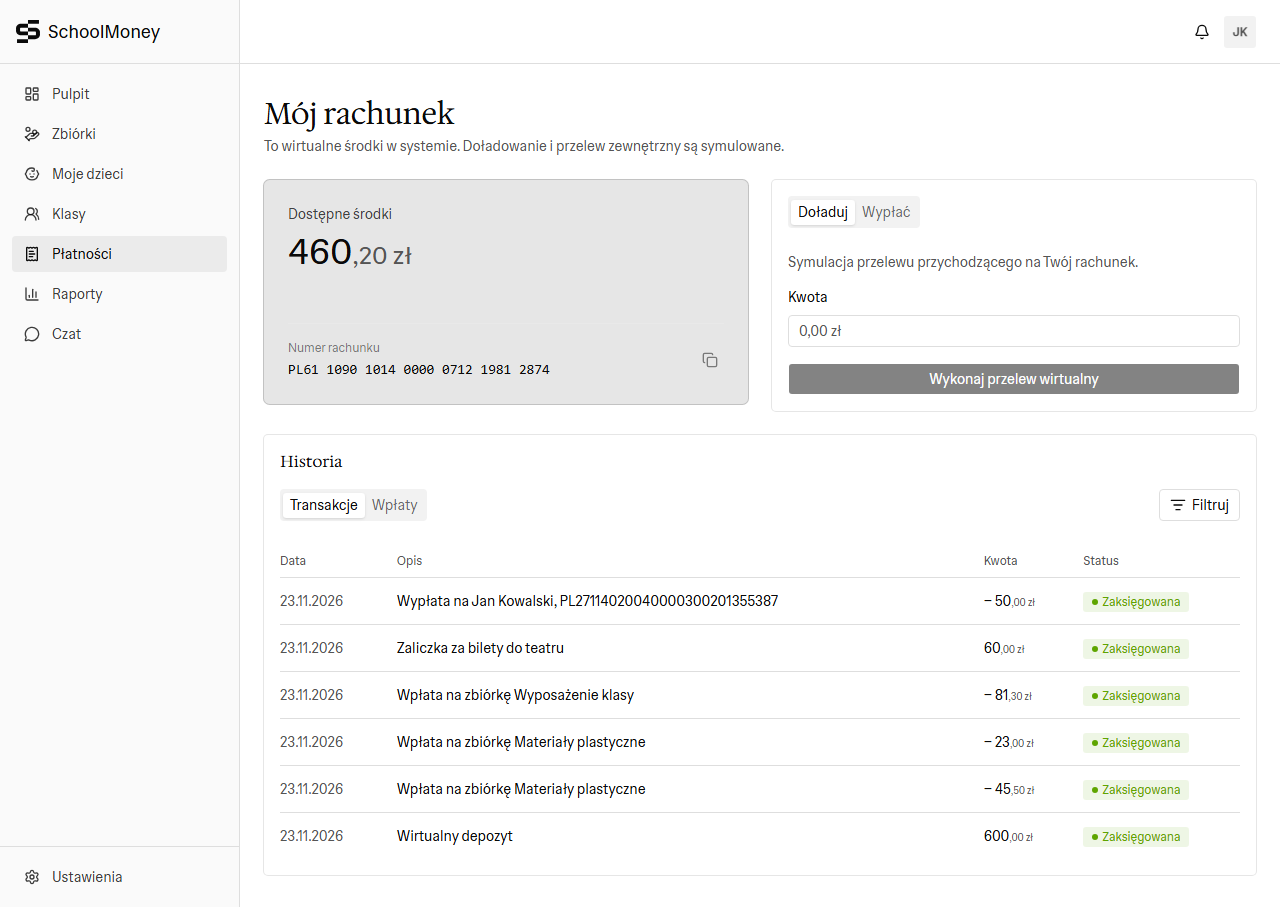
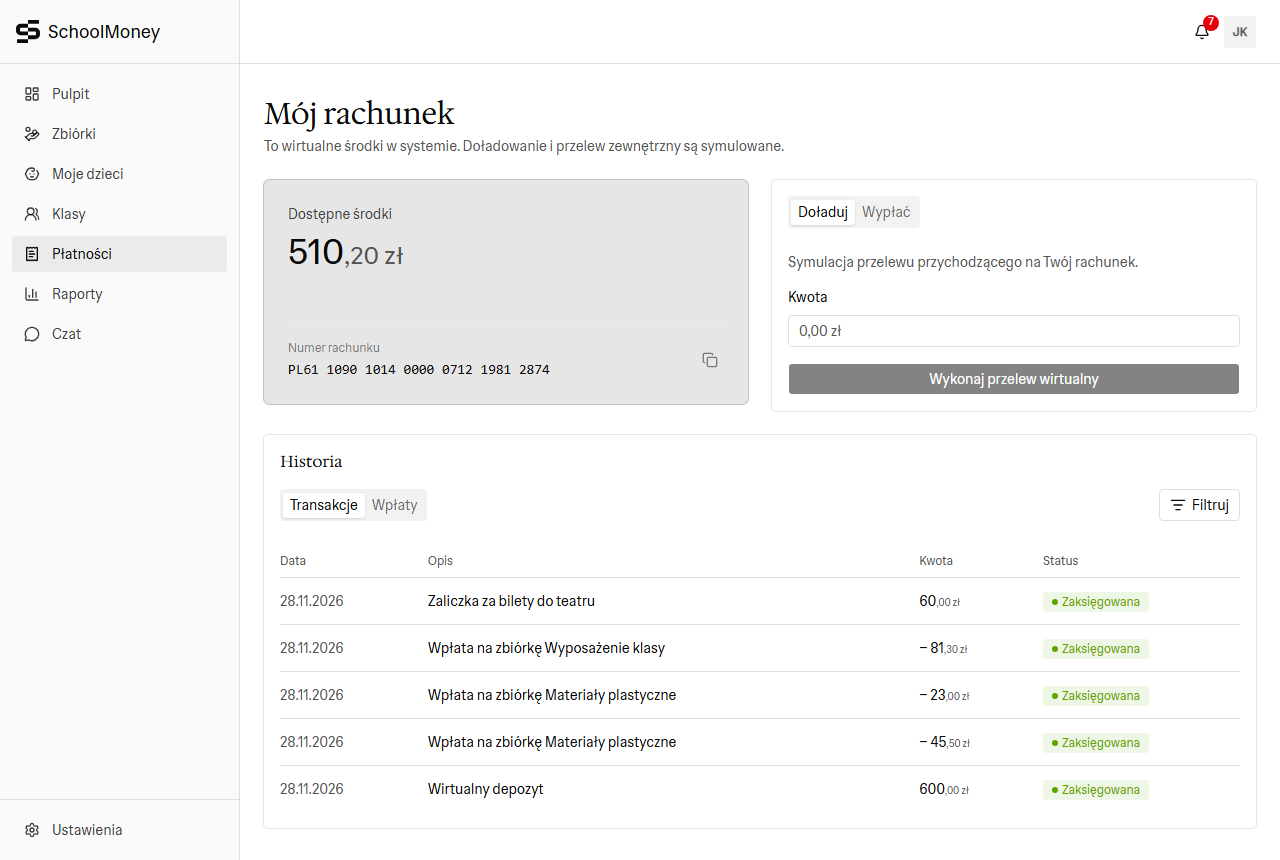
Update docs

diff --git a/docs/funkcjonalnosci.md b/docs/funkcjonalnosci.md
@@ -9,10 +9,12 @@
 5. [Klasy](#5-klasy)
 6. [Zbiórki](#6-zbiórki)
 7. [Rachunek i płatności](#7-rachunek-i-płatności)
-8. [Czat](#8-czat)
-9. [Ustawienia konta](#9-ustawienia-konta)
-10. [Wersja mobilna](#10-wersja-mobilna)
-11. [Bezpieczeństwo i poprawność danych](#11-bezpieczeństwo-i-poprawność-danych)
+8. [Raporty](#8-raporty)
+9. [Czat](#9-czat)
+10. [Ustawienia konta](#10-ustawienia-konta)
+11. [Panel administratora](#11-panel-administratora)
+12. [Wersja mobilna](#12-wersja-mobilna)
+13. [Bezpieczeństwo i poprawność danych](#13-bezpieczeństwo-i-poprawność-danych)
 
 ## 1. Role użytkowników
 
@@ -21,7 +23,7 @@
 | Gość | Osoba niezalogowana | Ogląda stronę główną, zakłada konto, loguje się. |
 | Rodzic | Każdy zalogowany użytkownik | Dodaje dzieci, zapisuje je do klas kodem, wpłaca na zbiórki, korzysta z rachunku i czatu. |
 | Skarbnik | Rodzic, który założył klasę | Dodatkowo zarządza klasą, przyjmuje dzieci, tworzy zbiórki, wypłaca środki i dodaje faktury. |
-| Administrator | Konto systemowe tworzone przy starcie aplikacji |  |
+| Administrator | Konto systemowe tworzone przy starcie aplikacji | Korzysta z panelu administratora: przegląda statystyki i raporty całej platformy, blokuje i odblokowuje konta, klasy i zbiórki, przy blokadzie zbiórki zwraca wpłaty rodzicom. Prowadzi rozmowy na czacie z każdym użytkownikiem. |
 
 ## 2. Strona główna, rejestracja i logowanie
 
@@ -83,6 +85,17 @@ Rodzic widzi saldo rachunku, przycisk doładowania, listę opłat do zrobienia z
 
 ![Pulpit rodzica](zrzuty/06-pulpit-rodzica.png)
 
+### 3.4. Powiadomienia skarbnika
+
+Skarbnik ma w górnym pasku ikonę dzwonka z licznikiem nowych powiadomień od ostatniego otwarcia listy. Powiadomienia odświeżają się automatycznie co kilka sekund i obejmują:
+
+- **Zgłoszenia do zatwierdzenia:** liczbę dzieci czekających na przyjęcie w każdej klasie.
+- **Nowe wpłaty na zbiórki:** kto, za jaką zbiórkę i ile wpłacił.
+
+Przycisk „Otwórz” przy powiadomieniu prowadzi do odpowiedniej klasy albo zbiórki. Rodzic, który nie prowadzi klasy, nie widzi dzwonka.
+
+![Powiadomienia](zrzuty/22-powiadomienia.png)
+
 ## 4. Moje dzieci
 
 Lista dzieci użytkownika. Rodzic może mieć dowolną liczbę dzieci, także w różnych klasach.
@@ -125,7 +138,7 @@ Zbiórki z klas prowadzonych przez użytkownika i z klas jego dzieci, z filtrem.
 | Trwa | Zbiórka przyjmuje wpłaty. |
 | Zamknięta | Zbiórka zakończona przez skarbnika. |
 | Zamknięta ze zwrotem | Zbiórka anulowana, wpłaty zwrócono rodzicom. |
-| Zablokowana | Zbiórka zablokowana, nie przyjmuje wpłat ani wypłat. |
+| Zablokowana | Zbiórka zablokowana przez administratora (bezpośrednio albo przez zablokowanie klasy), nie przyjmuje wpłat ani wypłat. |
 
 ![Zbiórki](zrzuty/07-zbiorki.png)
 
@@ -178,7 +191,8 @@ Każdy użytkownik ma wirtualny rachunek osobisty z numerem IBAN.
 
 - **Saldo** i numer rachunku z przyciskiem kopiowania.
 - **Doładowanie:** symulacja przelewu przychodzącego na rachunek.
-- **Wypłata:** symulacja przelewu na rachunek zewnętrzny (nazwa odbiorcy i IBAN). Nie można wypłacić na rachunek należący do systemu.
+- **Wypłata:** symulacja przelewu na rachunek zewnętrzny (nazwa odbiorcy i IBAN). Nie można wypłacić na rachunek należący do systemu ani więcej, niż jest na rachunku.
+- **Zapisani odbiorcy:** przy wypłacie można zaznaczyć „Zapamiętaj ten rachunek”. Przy kolejnej wypłacie odbiorcę wybiera się z listy, bez ponownego wpisywania nazwy i numeru IBAN.
 - **Historia transakcji:** doładowania, wypłaty, wpłaty na zbiórki i zwroty, ze stronicowaniem.
 - **Historia wpłat na zbiórki**, także tych za cudze dzieci.
 - **Zaawansowane filtrowanie** historii: rodzaj operacji, przedział dat, przedział kwot i wyszukiwanie po tytule, nazwie zbiórki lub imieniu dziecka. Aktywne filtry są widoczne jako etykiety, które można usuwać pojedynczo.
@@ -187,14 +201,29 @@ Każdy użytkownik ma wirtualny rachunek osobisty z numerem IBAN.
 
 ![Filtry historii](zrzuty/17-filtry-historii.png)
 
-## 8. Czat
+![Wypłata z wyborem odbiorcy](zrzuty/23-wyplata-zapisane-konto.png)
+
+## 8. Raporty
+
+Strona „Raporty” w menu bocznym pozwala pobrać zestawienie finansowe: wpłaty z płatnikiem i dzieckiem, zwroty, wypłaty i uzupełnienia.
+
+- **Zakres raportu:**
+  - **zbiórka:** dla skarbnika klasy i rodziców przyjętych dzieci;
+  - **dziecko:** dla rodzica dziecka;
+  - **klasa:** dla skarbnika klasy.
+- **Okres:** opcjonalne daty od–do. Puste pola oznaczają cały okres trwania zbiórki, a daty obejmują dzień początkowy i końcowy.
+- **Format:** PDF albo CSV do otwarcia w Excelu.
+
+![Raporty](zrzuty/21-raporty.png)
+
+## 9. Czat
 
 Rozmowy tekstowe między użytkownikami.
 
 - **Czat klasy:** wspólna rozmowa skarbnika i rodziców przyjętych dzieci; tworzony automatycznie dla każdej klasy.
 - **Rozmowy prywatne:** z osobami ze wspólnych klas oraz z administratorem. Przycisk „Nowa rozmowa” pokazuje tylko osoby, do których wolno pisać.
 - **Bezpieczeństwo:** gdy użytkownicy przestają mieć wspólną klasę, nie mogą już do siebie pisać; historia rozmowy zostaje widoczna. Serwer sprawdza to przy każdej wiadomości.
-- **Usunięte konto:** rozmowa z osobą, która usunęła konto, zostaje widoczna jako „Usunięte konto”, ale nie da się już w niej pisać.
+- **Usunięte i zablokowane konto:** rozmowa z osobą, która usunęła konto albo została zablokowana przez administratora, zostaje widoczna, ale nie da się już w niej pisać. Usunięte konto jest pokazywane jako „Usunięte konto”.
 - **Nieprzeczytane wiadomości:** licznik przy każdej rozmowie; wiadomości są oznaczane jako przeczytane po otwarciu rozmowy.
 - **Ukrywanie rozmów:** rozmowę można ukryć z listy; wraca, gdy przyjdzie nowa wiadomość. Pusta prywatna rozmowa znika z listy po przejściu do innej.
 - **Odświeżanie:** nowe wiadomości pojawiają się automatycznie (co 3 sekundy w otwartej rozmowie, lista rozmów co 10 sekund).
@@ -202,7 +231,7 @@ Rozmowy tekstowe między użytkownikami.
 
 ![Czat](zrzuty/18-czat.png)
 
-## 9. Ustawienia konta
+## 10. Ustawienia konta
 
 Dostępne z menu bocznego („Ustawienia”).
 
@@ -213,16 +242,64 @@ Dostępne z menu bocznego („Ustawienia”).
 
 ![Ustawienia konta](zrzuty/19-ustawienia.png)
 
-## 10. Wersja mobilna
+## 11. Panel administratora
+
+Po zalogowaniu administrator trafia do panelu administratora. Poza panelem ma dostęp tylko do czatu; próba otwarcia innej strony aplikacji przenosi go z powrotem do panelu. Panel ma zakładki: Przegląd, Użytkownicy, Skarbnicy, Klasy, Zbiórki i Raporty.
+
+### 11.1. Przegląd
+
+- **Statystyki platformy:** liczba użytkowników, skarbników, klas i aktywnych zbiórek (z liczbą zakończonych).
+- **Podsumowanie finansowe:** suma zebrana we wszystkich zbiórkach, obrót (wpłaty i doładowania) oraz nowi użytkownicy z ostatnich 6 miesięcy, a także liczba zablokowanych kont, klas i zbiórek.
+- **Obrót w ostatnich miesiącach:** tabela z obrotem, nowymi użytkownikami i zbiórkami w każdym miesiącu, z odnośnikiem do pełnego raportu.
+- **Ostatnia aktywność:** najnowsze rejestracje, nowe klasy i nowe zbiórki.
+- **Skarbnicy i zbiórki:** ostatnio zarejestrowani skarbnicy i najnowsze zbiórki, z odnośnikami do pełnych list.
+- **Szybkie przejścia** do raportów i zarządzania użytkownikami.
+
+![Panel administratora – przegląd](zrzuty/24-admin-przeglad.png)
+
+### 11.2. Zarządzanie użytkownikami, skarbnikami, klasami i zbiórkami
+
+Każda zakładka zawiera tabelę z wyszukiwarką i sortowaniem po kolumnach.
+
+- **Użytkownicy:** wszystkie konta z rolą, liczbą klas, datą dołączenia i statusem. Zablokowany użytkownik nie może się zalogować. Konta administratora nie da się zablokować.
+- **Skarbnicy:** właściciele klas z liczbą klas, zbiórek i łącznie zebraną kwotą. Skarbnika można zablokować tak samo jak każde konto.
+- **Klasy:** wszystkie klasy ze szkołą, skarbnikiem, liczbą dzieci i zbiórek. Do zablokowanej klasy nie można dołączyć ani jej zmieniać, a jej zbiórki wstrzymują wpłaty.
+- **Zbiórki:** wszystkie zbiórki z klasą, zebraną kwotą, statusem i datą utworzenia. Zablokowana zbiórka nie przyjmuje wpłat ani wypłat.
+
+Blokowanie i odblokowanie wymaga potwierdzenia w oknie dialogowym, a blokadę można w każdej chwili cofnąć. Przy blokowaniu trwającej zbiórki administrator może od razu zwrócić wszystkie wpłaty płatnikom („Zablokuj i zwróć środki”).
+
+![Użytkownicy](zrzuty/25-admin-uzytkownicy.png)
+
+![Skarbnicy](zrzuty/26-admin-skarbnicy.png)
+
+![Klasy](zrzuty/27-admin-klasy.png)
+
+![Zbiórki](zrzuty/28-admin-zbiorki.png)
+
+![Blokowanie zbiórki ze zwrotem wpłat](zrzuty/29-admin-blokada-zbiorki.png)
+
+### 11.3. Raporty finansowe
+
+Zestawienie całej platformy w podziale na miesiące: obrót (wpłaty i doładowania), nowi użytkownicy i nowe zbiórki, z wyborem okresu od–do (do 24 miesięcy) i sortowaniem kolumn. Wybór okresu jest dostępny, gdy na platformie są dane z co najmniej dwóch miesięcy.
+
+![Raporty finansowe](zrzuty/30-admin-raporty.png)
+
+### 11.4. Kontakt ze skarbnikami
+
+Administrator korzysta z czatu: może rozpocząć prywatną rozmowę z każdym skarbnikiem i rodzicem, a każdy użytkownik może napisać do administratora.
+
+![Czat administratora ze skarbnikiem](zrzuty/31-admin-czat.png)
+
+## 12. Wersja mobilna
 
 Interfejs dostosowuje się do szerokości ekranu. Na telefonie menu boczne zastępuje dolny pasek nawigacji, a okna dialogowe otwierają się jako panele wysuwane od dołu ekranu.
 
 ![Pulpit na telefonie](zrzuty/20-pulpit-mobile.png)
 
-## 11. Bezpieczeństwo i poprawność danych
+## 13. Bezpieczeństwo i poprawność danych
 
-- **Uwierzytelnianie:** każde żądanie do API, poza rejestracją, logowaniem i sprawdzeniem kodu klasy, wymaga tokenu JWT. Zablokowane (usunięte) konto traci dostęp od razu.
-- **Uprawnienia:** serwer sprawdza przy każdej operacji, czy użytkownik ma dostęp do klasy, zbiórki, dziecka lub rozmowy. Operacje skarbnika są dostępne tylko dla właściciela klasy.
+- **Uwierzytelnianie:** każde żądanie do API, poza rejestracją, logowaniem i sprawdzeniem kodu klasy, wymaga tokenu JWT. Konto zablokowane przez administratora albo usunięte traci dostęp od razu.
+- **Uprawnienia:** serwer sprawdza przy każdej operacji, czy użytkownik ma dostęp do klasy, zbiórki, dziecka lub rozmowy. Operacje skarbnika są dostępne tylko dla właściciela klasy, a operacje panelu administratora – tylko dla administratora.
 - **Hasła:** przechowywane wyłącznie jako skrót bcrypt.
 - **Walidacja danych:** pola formularzy mają limity długości i formatu sprawdzane w przeglądarce (pola nie przyjmują niepoprawnych znaków) i ponownie na serwerze.
 - **Pieniądze:** kwoty są liczone z dokładnością do grosza; nie da się wpłacić więcej, niż wynosi składka, ani wydać więcej, niż jest na rachunku.

diff --git a/docs/endpointy-api.md b/docs/endpointy-api.md
@@ -8,11 +8,11 @@
 | Swagger UI | `http://localhost/api/swagger` |
 | Specyfikacja OpenAPI (JSON) | `http://localhost/api/v3/api-docs`|
 | Uwierzytelnianie | token JWT w nagłówku `Authorization: Bearer <token>` |
-| Liczba endpointów | 74 |
+| Liczba endpointów | 90 |
 
 ### 1.1. Uwierzytelnianie
 
-Token JWT zwracają endpointy `POST /auth/register` i `POST /auth/login` (pole `accessToken`). Wszystkie pozostałe endpointy, poza oznaczonymi jako publiczne, wymagają tego tokenu.
+Token JWT zwracają endpointy `POST /auth/register` i `POST /auth/login` (pole `accessToken`). Wszystkie pozostałe endpointy, poza oznaczonymi jako publiczne, wymagają tego tokenu. Endpointy `/admin/...` są dostępne tylko dla konta administratora; inne konta dostają odpowiedź 403.
 
 ### 1.2. Kody odpowiedzi i błędy
 
@@ -157,3 +157,24 @@ Token JWT zwracają endpointy `POST /auth/register` i `POST /auth/login` (pole `
 | `GET` | `/chats/class/{classId}` | Czat klasy (skarbnik i rodzice przyjętych dzieci). | JWT |
 | `GET` | `/chats/contacts` | Osoby, z którymi użytkownik może rozpocząć prywatną rozmowę. | JWT |
 | `POST` | `/chats/private` | Otwarcie istniejącej lub rozpoczęcie nowej prywatnej rozmowy z użytkownikiem. | JWT |
+
+### Administracja
+
+| Metoda | Ścieżka | Opis | Dostęp |
+|---|---|---|---|
+| `GET` | `/admin/classes` | Lista wszystkich klas, od najnowszych; wyszukiwanie po nazwie, szkole lub mieście, filtry: blokada, skarbnik, klasy usunięte. | administrator |
+| `GET` | `/admin/classes/{id}` | Szczegóły klasy wraz z dziećmi i zbiórkami. | administrator |
+| `POST` | `/admin/classes/{id}/block` | Zablokowanie klasy: nie można do niej dołączyć ani jej zmieniać, a jej zbiórki wstrzymują wpłaty i inne operacje. | administrator |
+| `DELETE` | `/admin/classes/{id}/block` | Odblokowanie klasy. | administrator |
+| `GET` | `/admin/fundraisings` | Lista wszystkich zbiórek, od najnowszych; wyszukiwanie po nazwie, filtry: status, blokada, klasa, skarbnik. | administrator |
+| `GET` | `/admin/fundraisings/{id}` | Szczegóły zbiórki z saldem rachunku i podsumowaniem wpłat. | administrator |
+| `POST` | `/admin/fundraisings/{id}/block` | Zablokowanie zbiórki: wstrzymuje wpłaty, wypłaty, zwroty środków i zwroty wpłat. | administrator |
+| `DELETE` | `/admin/fundraisings/{id}/block` | Odblokowanie zbiórki. | administrator |
+| `POST` | `/admin/fundraisings/{id}/refund` | Zwrot wszystkich wpłat z zablokowanej zbiórki rodzicom. | administrator |
+| `GET` | `/admin/reports/summary` | Raport finansowy całego systemu w podziale na miesiące: nowi użytkownicy, nowe zbiórki i obrót; domyślnie ostatnie 6 miesięcy, maks. 24. | administrator |
+| `GET` | `/admin/stats` | Liczniki całego systemu do pulpitu administratora: użytkownicy, skarbnicy, zbiórki według statusu oraz zablokowane konta, klasy i zbiórki. | administrator |
+| `GET` | `/admin/treasurers` | Lista skarbników (właścicieli klas) z ich klasami, liczbą zbiórek i łącznie zebraną kwotą. | administrator |
+| `GET` | `/admin/users` | Lista wszystkich użytkowników, od najnowszych; wyszukiwanie po e-mailu lub nazwisku, filtry: rola, blokada, klasa, okres rejestracji. | administrator |
+| `GET` | `/admin/users/{id}` | Szczegóły użytkownika: klasy, dzieci, saldo rachunku i liczba prowadzonych zbiórek. | administrator |
+| `POST` | `/admin/users/{id}/block` | Zablokowanie konta: użytkownik nie może się zalogować ani korzystać z API. Konta administratora nie można zablokować. | administrator |
+| `DELETE` | `/admin/users/{id}/block` | Odblokowanie konta. | administrator |
